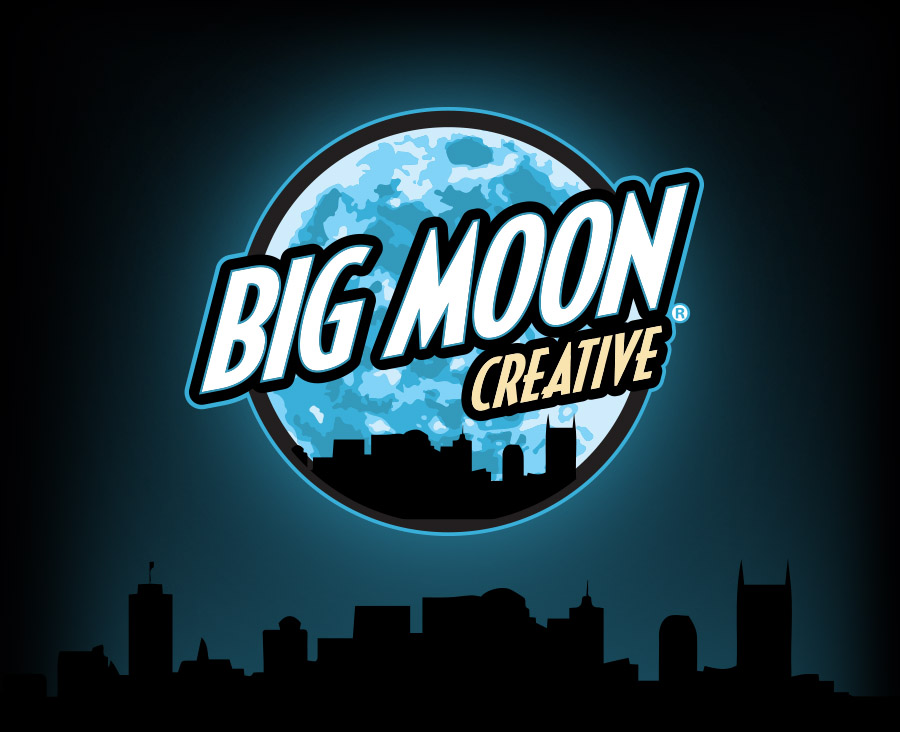
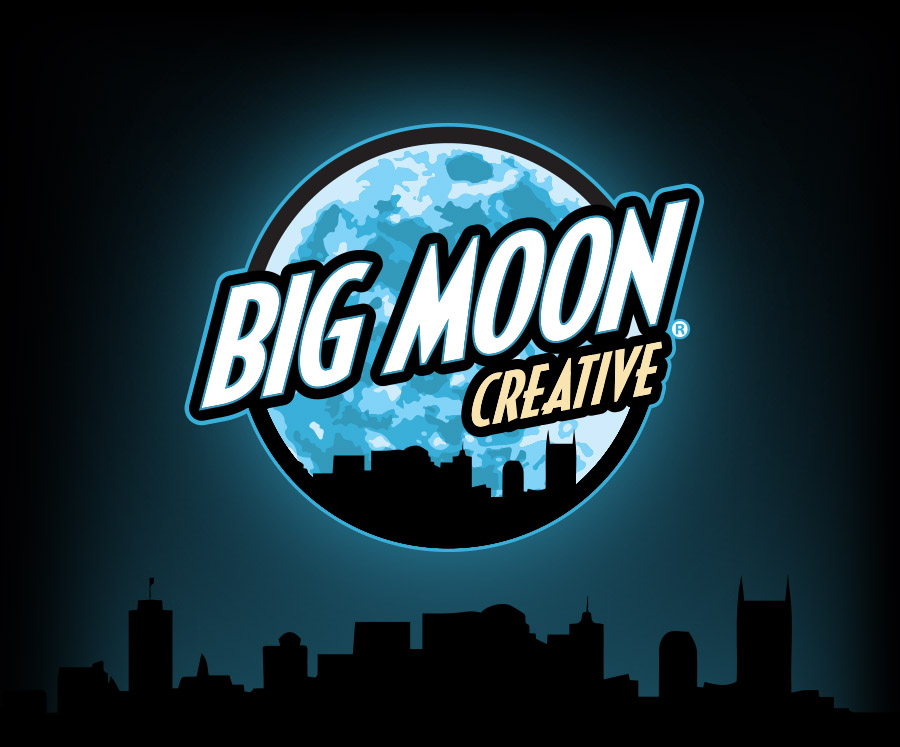
initial design

diff --git a/client/app/home/home.html b/client/app/home/home.html
@@ -1,34 +1,147 @@
-<div class="landing-img">
-	<div class="container">
-		<div class="row">
-			<div class="col-md-offset-1 col-md-10 col-lg-offset-1 col-lg-10">
-				<div class="moon-img">
-					<p class="text-center"><img src="../assets/images/BigMoon.png" alt="moon image" width="500" /></p>
-				</div>
-				<p class="home-desc">We are a boutique creative studio specializing in web development, graphic design, and branding. We struggle with perfectionism and strive to serve our clients well.</p>
-			</div>
-		</div>
-	</div>
-</div>
-<nav class="navbar navbar-default" role="navigation">
+<nav class="navbar navbar-default" ng-controller="HomeCtrl">
   <div class="container-fluid">
     <!-- Brand and toggle get grouped for better mobile display -->
     <div class="navbar-header">
-      <button type="button" class="navbar-toggle collapsed" data-toggle="collapse" data-target="#bs-example-navbar-collapse-1">
+      <button type="button" class="navbar-toggle collapsed" ng-click="isCollapsed = !isCollapsed">
         <span class="sr-only">Toggle navigation</span>
         <span class="icon-bar"></span>
         <span class="icon-bar"></span>
         <span class="icon-bar"></span>
       </button>
+      <a class="navbar-brand" href="#">Brand</a>
     </div>
+
     <!-- Collect the nav links, forms, and other content for toggling -->
-    <div class="collapse navbar-collapse" id="bs-example-navbar-collapse-1">
+    <div class="navbar-collapse" ng-class="isCollapsed ? 'collapse' : 'in'">
       <ul class="nav navbar-nav">
-        <li><a href="#">Services</a></li>
-        <li><a href="#">Portfolio</a></li>
-        <li><a href="#">About</a></li>
-        <li><a href="#">Contact</a></li>
+        <li class="active"><a href="#">Link</a></li>
+        <li><a href="#">Link</a></li>
+        <li class="dropdown">
+          <a href="#" class="dropdown-toggle" data-toggle="dropdown">Dropdown <span class="caret"></span></a>
+          <ul class="dropdown-menu" role="menu">
+            <li><a href="#">Action</a></li>
+            <li><a href="#">Another action</a></li>
+            <li><a href="#">Something else here</a></li>
+            <li class="divider"></li>
+            <li><a href="#">Separated link</a></li>
+            <li class="divider"></li>
+            <li><a href="#">One more separated link</a></li>
+          </ul>
+        </li>
+      </ul>
+      <form class="navbar-form navbar-left" role="search">
+        <div class="form-group">
+          <input type="text" class="form-control" placeholder="Search">
+        </div>
+        <button type="submit" class="btn btn-default">Submit</button>
+      </form>
+      <ul class="nav navbar-nav navbar-right">
+        <li><a href="#">Link</a></li>
+        <li class="dropdown">
+          <a href="#" class="dropdown-toggle" data-toggle="dropdown">Dropdown <span class="caret"></span></a>
+          <ul class="dropdown-menu" role="menu">
+            <li><a href="#">Action</a></li>
+            <li><a href="#">Another action</a></li>
+            <li><a href="#">Something else here</a></li>
+            <li class="divider"></li>
+            <li><a href="#">Separated link</a></li>
+          </ul>
+        </li>
       </ul>
     </div><!-- /.navbar-collapse -->
   </div><!-- /.container-fluid -->
 </nav>
+<div class="container">
+  <p class="text-center"><img class="img-responsive" src="../assets/images/BigMoon.png" alt="Big Moon Creative" /></p>
+</div>
+
+<div class="container">
+  <div class="row">
+    <div class="col-md-12">
+      <p class="subhead">Services</h3>
+    </div>
+  </div>
+</div>
+
+<div class="container">
+  <div class="row">
+    <div class="col-md-12">
+      <p class="subhead">Portfolio</h3>
+    </div>
+  </div>
+</div>
+
+<div class="container">
+  <div class="row">
+    <div class="col-md-12">
+      <p class="subhead">About</h3>
+    </div>
+  </div>
+</div>
+
+<div class="container">
+  <div class="row">
+    <div class="col-md-offset-2 col-md-3">
+      <p class="text-center"><img src="../assets/images/aaron.png" alt="Aaron Johnson-Lead Developer" class="img-responsive round-img"/></p>
+      <p class="name">Aaron Johnson</p>
+      <p class="title">Lead Developer</p>
+      <p class="desc">Lorem ipsum dolor sit amet, consectetur adipiscing elit. Duis vel hendrerit nibh, mollis laoreet tortor.</p>
+    </div>
+    <div class="col-md-offset-2 col-md-3">
+      <p class="text-center"><img src="../assets/images/tim.png" alt="Tim LaCapra-Lead Designer" class="img-responsive round-img" /></p>
+      <p class="name">Tim LaCapra</p>
+      <p class="title">Lead Designer</p>
+      <p class="desc">Lorem ipsum dolor sit amet, consectetur adipiscing elit. Duis vel hendrerit nibh, mollis laoreet tortor.</p>
+    </div>
+  </div>
+</div>
+
+<div class="container">
+  <div class="row">
+    <div class="col-md-12">
+      <p class="subhead">Contact</h3>
+    </div>
+  </div>
+</div>
+<div class="container">
+  <div class="row">
+    <div class="col-md-3">
+      <p class="contact-name">Aaron Johnson</p>
+      <p class="contact-email">aaron@bigmooncreative.com</p>
+      <p class="contact-phone">615.630.1457</p>
+    </div>
+    <div class="col-md-3">
+      <p class="contact-name">Tim Lacapra</p>
+      <p class="contact-email">tim@bigmooncreative.com</p>
+      <p class="contact-phone">615.630.1457</p>
+    </div>
+    <div class="col-md-6">
+      <p class="intouch">Get in Touch</p>
+      <p class="intouch-text">Tell us about your project. We typically respond in two business days to set up a meeting where we can get to know each other and start defining goals, scope, budget, and timeline.</p>
+      <form>
+        <div class="form-group">
+          <label>Full Name *</label>
+          <input type="text" class="form-control" />
+        </div>
+        <div class="form-group">
+          <label>Email Address*</label>
+          <input type="email" class="form-control" />
+        </div>
+        <div class="form-group">
+          <label>Tell us about your project</label>
+          <textarea type="text_area" class="form-control" rows="4"></textarea>
+        </div>
+        <button class="btn btn-danger">Get In Touch</button>
+      </form>
+    </div>
+  </div>
+</div>
+
+<div class="footer">
+  <p class="footer-text">&copy; 2014 Big Moon Creative. All Rights Reserved.</p>
+</div>
+
+
+
+
+

diff --git a/client/app/home/home.css b/client/app/home/home.css
@@ -1,4 +1,4 @@
-.landing-img { background:transparent;padding-top:0px;padding-bottom:100px; }
+.landing-img { background:#fff;padding-top:0px; }
 .rising { margin-bottom:0px;font-family:'latolight';text-transform:uppercase;color:#f9e4af;font-weight:600;font-size:3.0em;letter-spacing:1px; }
 .landing-btm { border-top:1px solid #aaa;padding-top:10px; }
 .landing-image { width:100%; }
@@ -6,26 +6,86 @@
 .tags { font-family:'latolight';color:#ACC3D1;text-transform:uppercase;letter-spacing:1px;font-size:1.9em; }
 .blue { color:#39afd5;font-family:'latolight'; }
 .moon-img { padding-top:0; }
-
-.navbar-collapse.collapse {
+.round-img { border-radius:50%;width:100%; }
+.name { font-weight:200;letter-spacing:1px;font-size:2.0em;text-align:center;margin-bottom:5px; }
+.title { font-weight:200;text-transform:uppercase;letter-spacing:1px;font-size:.85em;text-align:center; }
+.desc { font-weight:200;text-align:center;color:#888; }
+.subhead { font-weight:200;text-align:center;color:#333;font-size:1.5em;text-transform:uppercase;letter-spacing:6px; }
+.contact-name { font-weight:100;font-size:1.7em;margin-bottom:0;text-align:center; }
+.contact-email { font-weight:200;font-size:1.1em;margin-bottom:0;text-align:center; }
+.contact-phone { font-weight:200;font-size:1.1em;margin-bottom:0;text-align:center; }
+.intouch { font-weight:100;color:#000;font-size:2.0em; }
+.intouch-text { font-weight:200;margin-bottom:20px; }
+.footer { background:#D8D8D8;padding:20px 0;font-size:1.1em;color:#888;font-weight:100;letter-spacing:1px; }
+/*.navbar-collapse.collapse {
 	text-align:center;
 	display:block !important;
 	height:auto !important;
 	padding-bottom:0;
 	overflow:visible !important;
-}
+}*/
 .navbar-nav {
 	display:inline-block;
 	float:none;
 	margin:0;
 }
 
-.navbar-nav > li > a {
+/*.navbar-nav > li > a {
 	font-size:1.4em;
 	font-weight:200;
-}
+}*/
 .home-desc {
 	font-weight:200;
-	font-size:2.5em;
+	font-size:2.0em;
 	text-align:center;
+	color:#eee;
 }
+.marginless { margin-bottom:-2px; }
+
+.skyline-hidden {
+	display:none;
+}
+
+.bottom-img { margin-top:-120px; }
+
+.main-moon {
+	width:60%;
+	margin:auto;
+}
+
+.navbar-toggle {
+  position: relative;
+  float: right;
+  padding: 9px 10px;
+  margin-top: 8px;
+  margin-right: 15px;
+  margin-bottom: 8px;
+  background-color: transparent;
+  background-image: none;
+  border: 0 solid transparent;
+  border-radius: 4px;
+}
+.navbar-toggle:focus {
+  outline: none;
+}
+
+.navbar-toggle .icon-bar {
+  display: block;
+  width: 22px;
+  height: 3px;
+  border-radius: 0px;
+}
+.navbar-toggle .icon-bar + .icon-bar {
+  margin-top: 4px;
+}
+
+.navbar-default .navbar-toggle .icon-bar {
+  background-color: #000;
+}
+
+.navbar-default {
+  background-color: #fff;
+  border-color: transparent;
+}
+
+

diff --git a/client/app/home/home.controller.js b/client/app/home/home.controller.js
@@ -1,6 +1,9 @@
 'use strict';
 
 angular.module('ngflbigmoonApp')
-  .controller('HomeCtrl', function ($scope) {
-    $scope.message = 'Hello';
+  .controller('HomeCtrl', function ($scope, $location) {
+    $scope.isCollapsed = true;
+    $scope.$on('$routeChangeSuccess', function() {
+    	$scope.isCollapsed = true;
+    });
   });

diff --git a/client/components/socket/socket.service.js b/client/components/socket/socket.service.js
@@ -8,7 +8,7 @@ angular.module('ngflbigmoonApp')
 
     clearInterval(retryTimer);
 
-    var ioSocket = io.connect('', {
+    var ioSocket = io.connect('http://ngflbigmoon-bigmoonapp.rhcloud.com:8000', {
       'force new connection': true,
 
       'max reconnection attempts': Infinity,

diff --git a/client/app/app.css b/client/app/app.css
@@ -2,6 +2,9 @@
  * App-wide Styles
  */
 
+
+
+
 .browsehappy {
     margin: 0.2em 0;
     background: #ccc;
